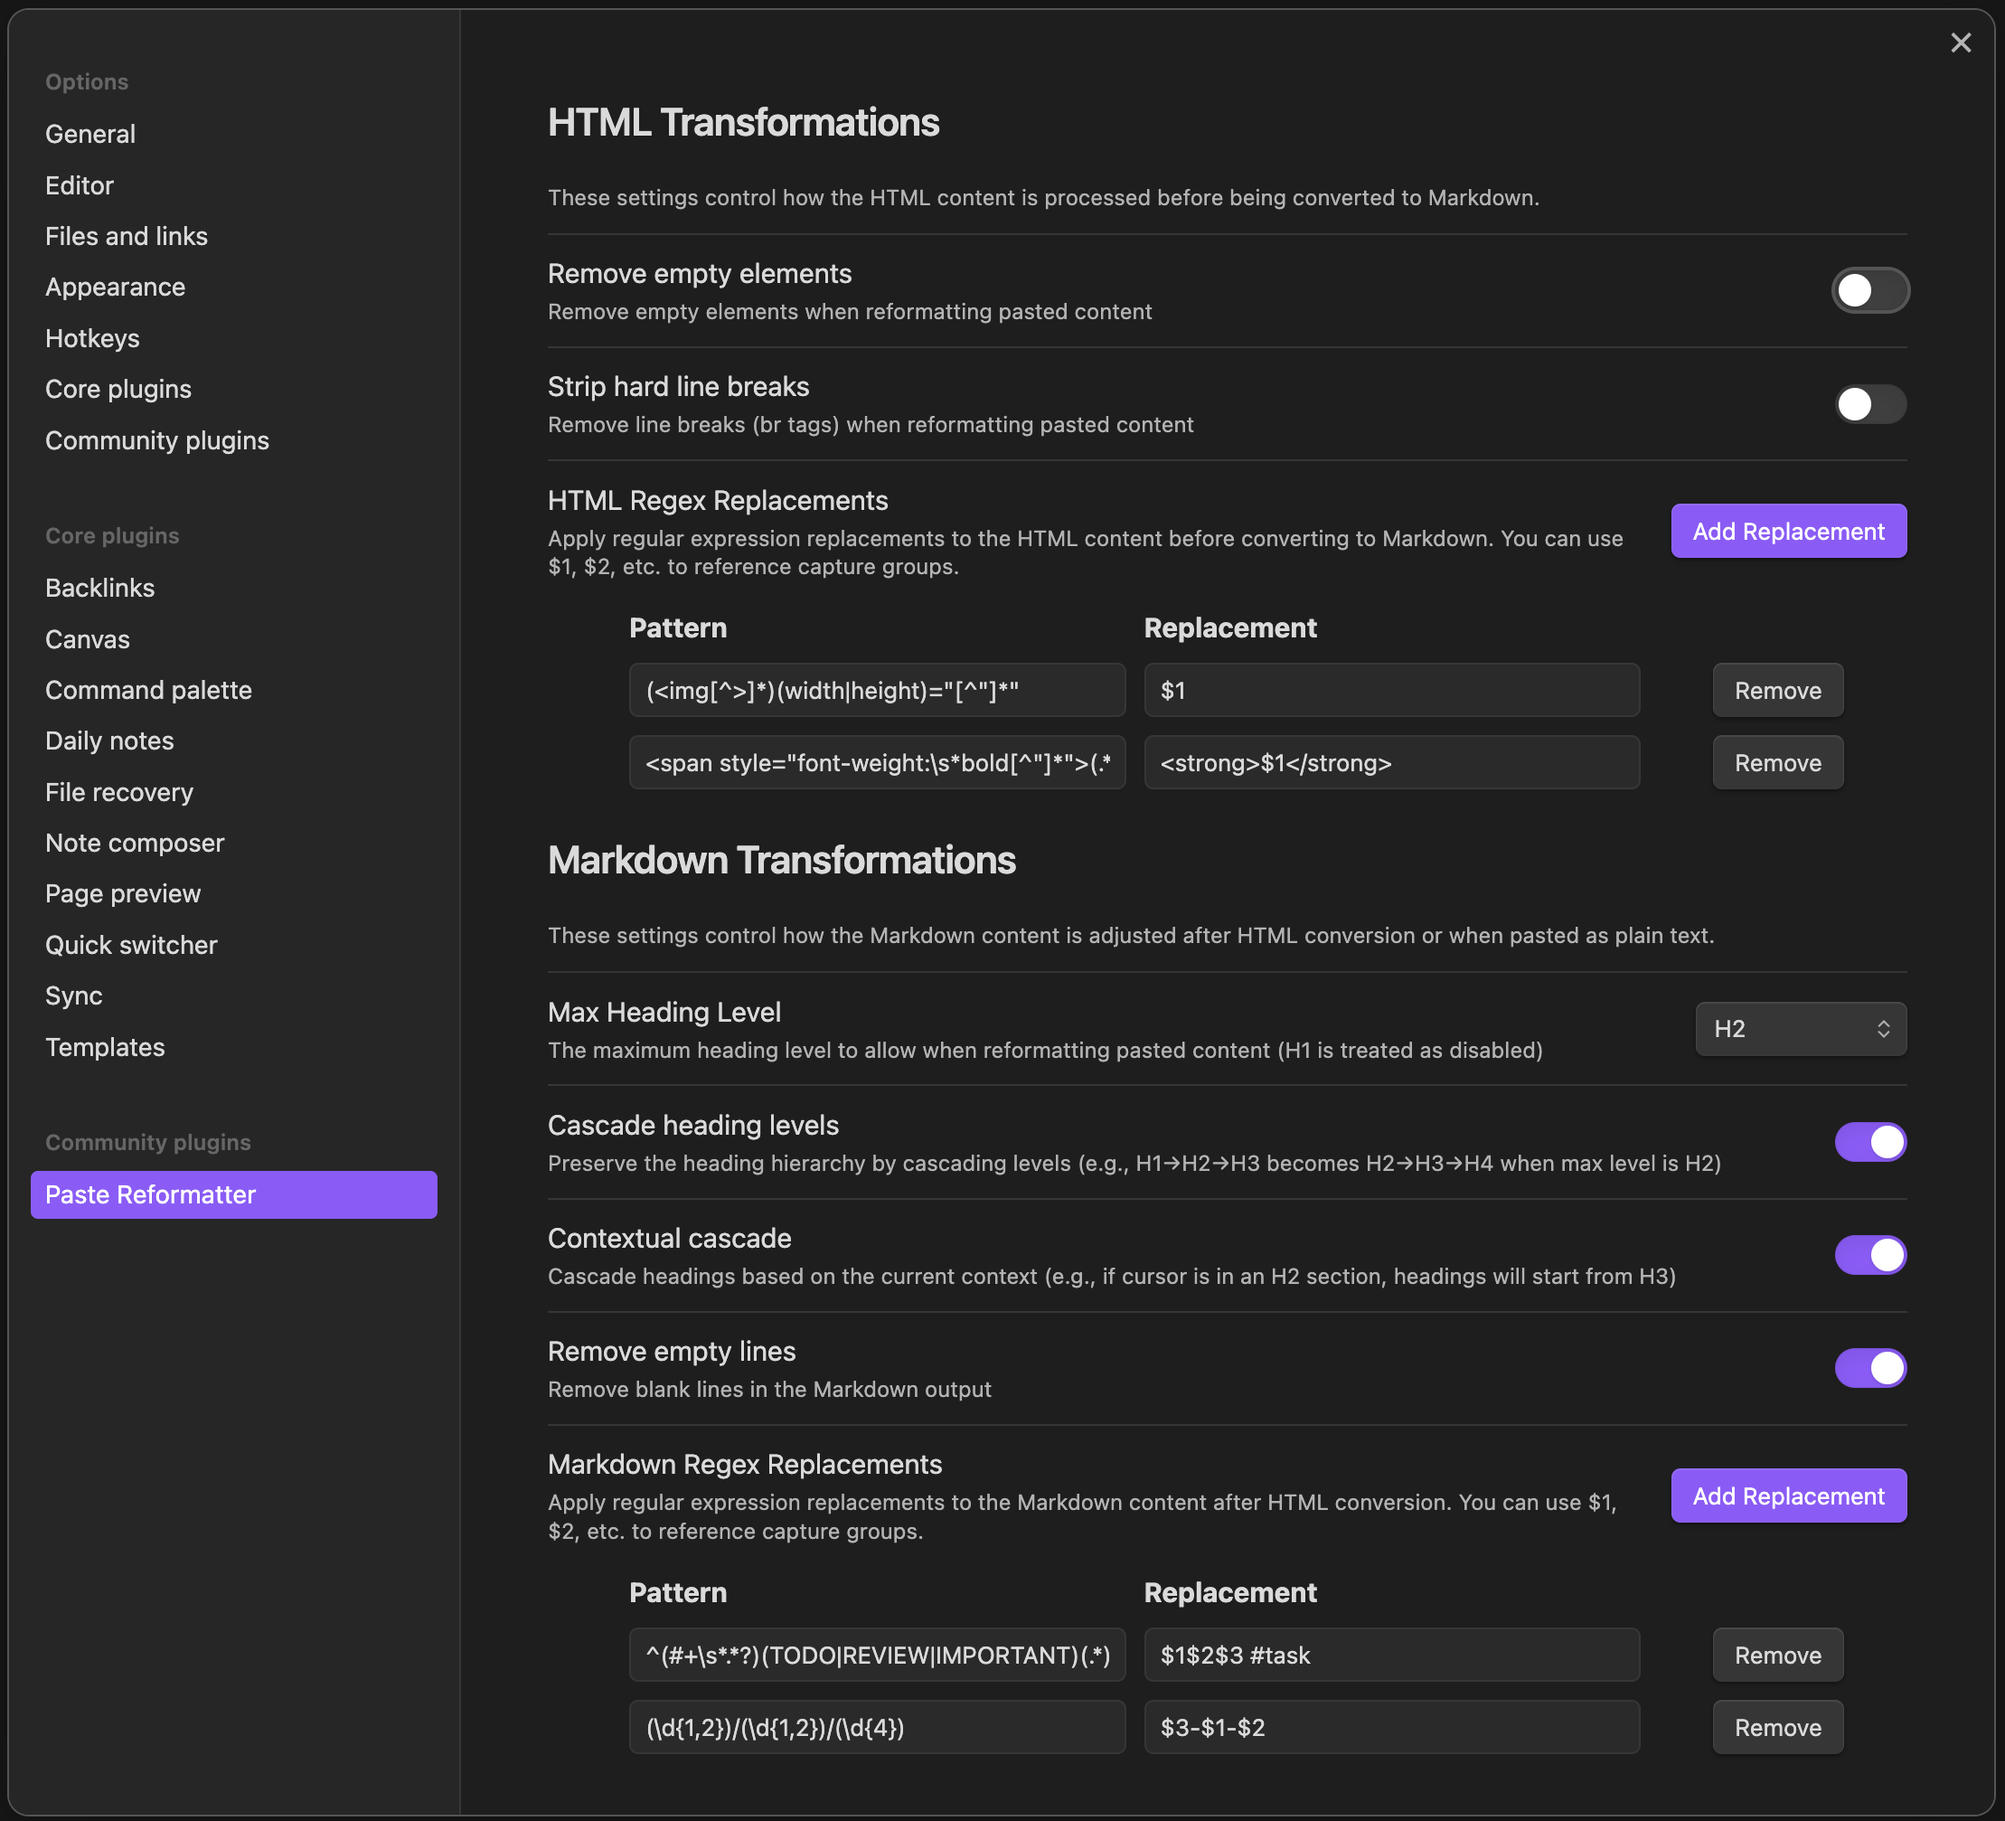
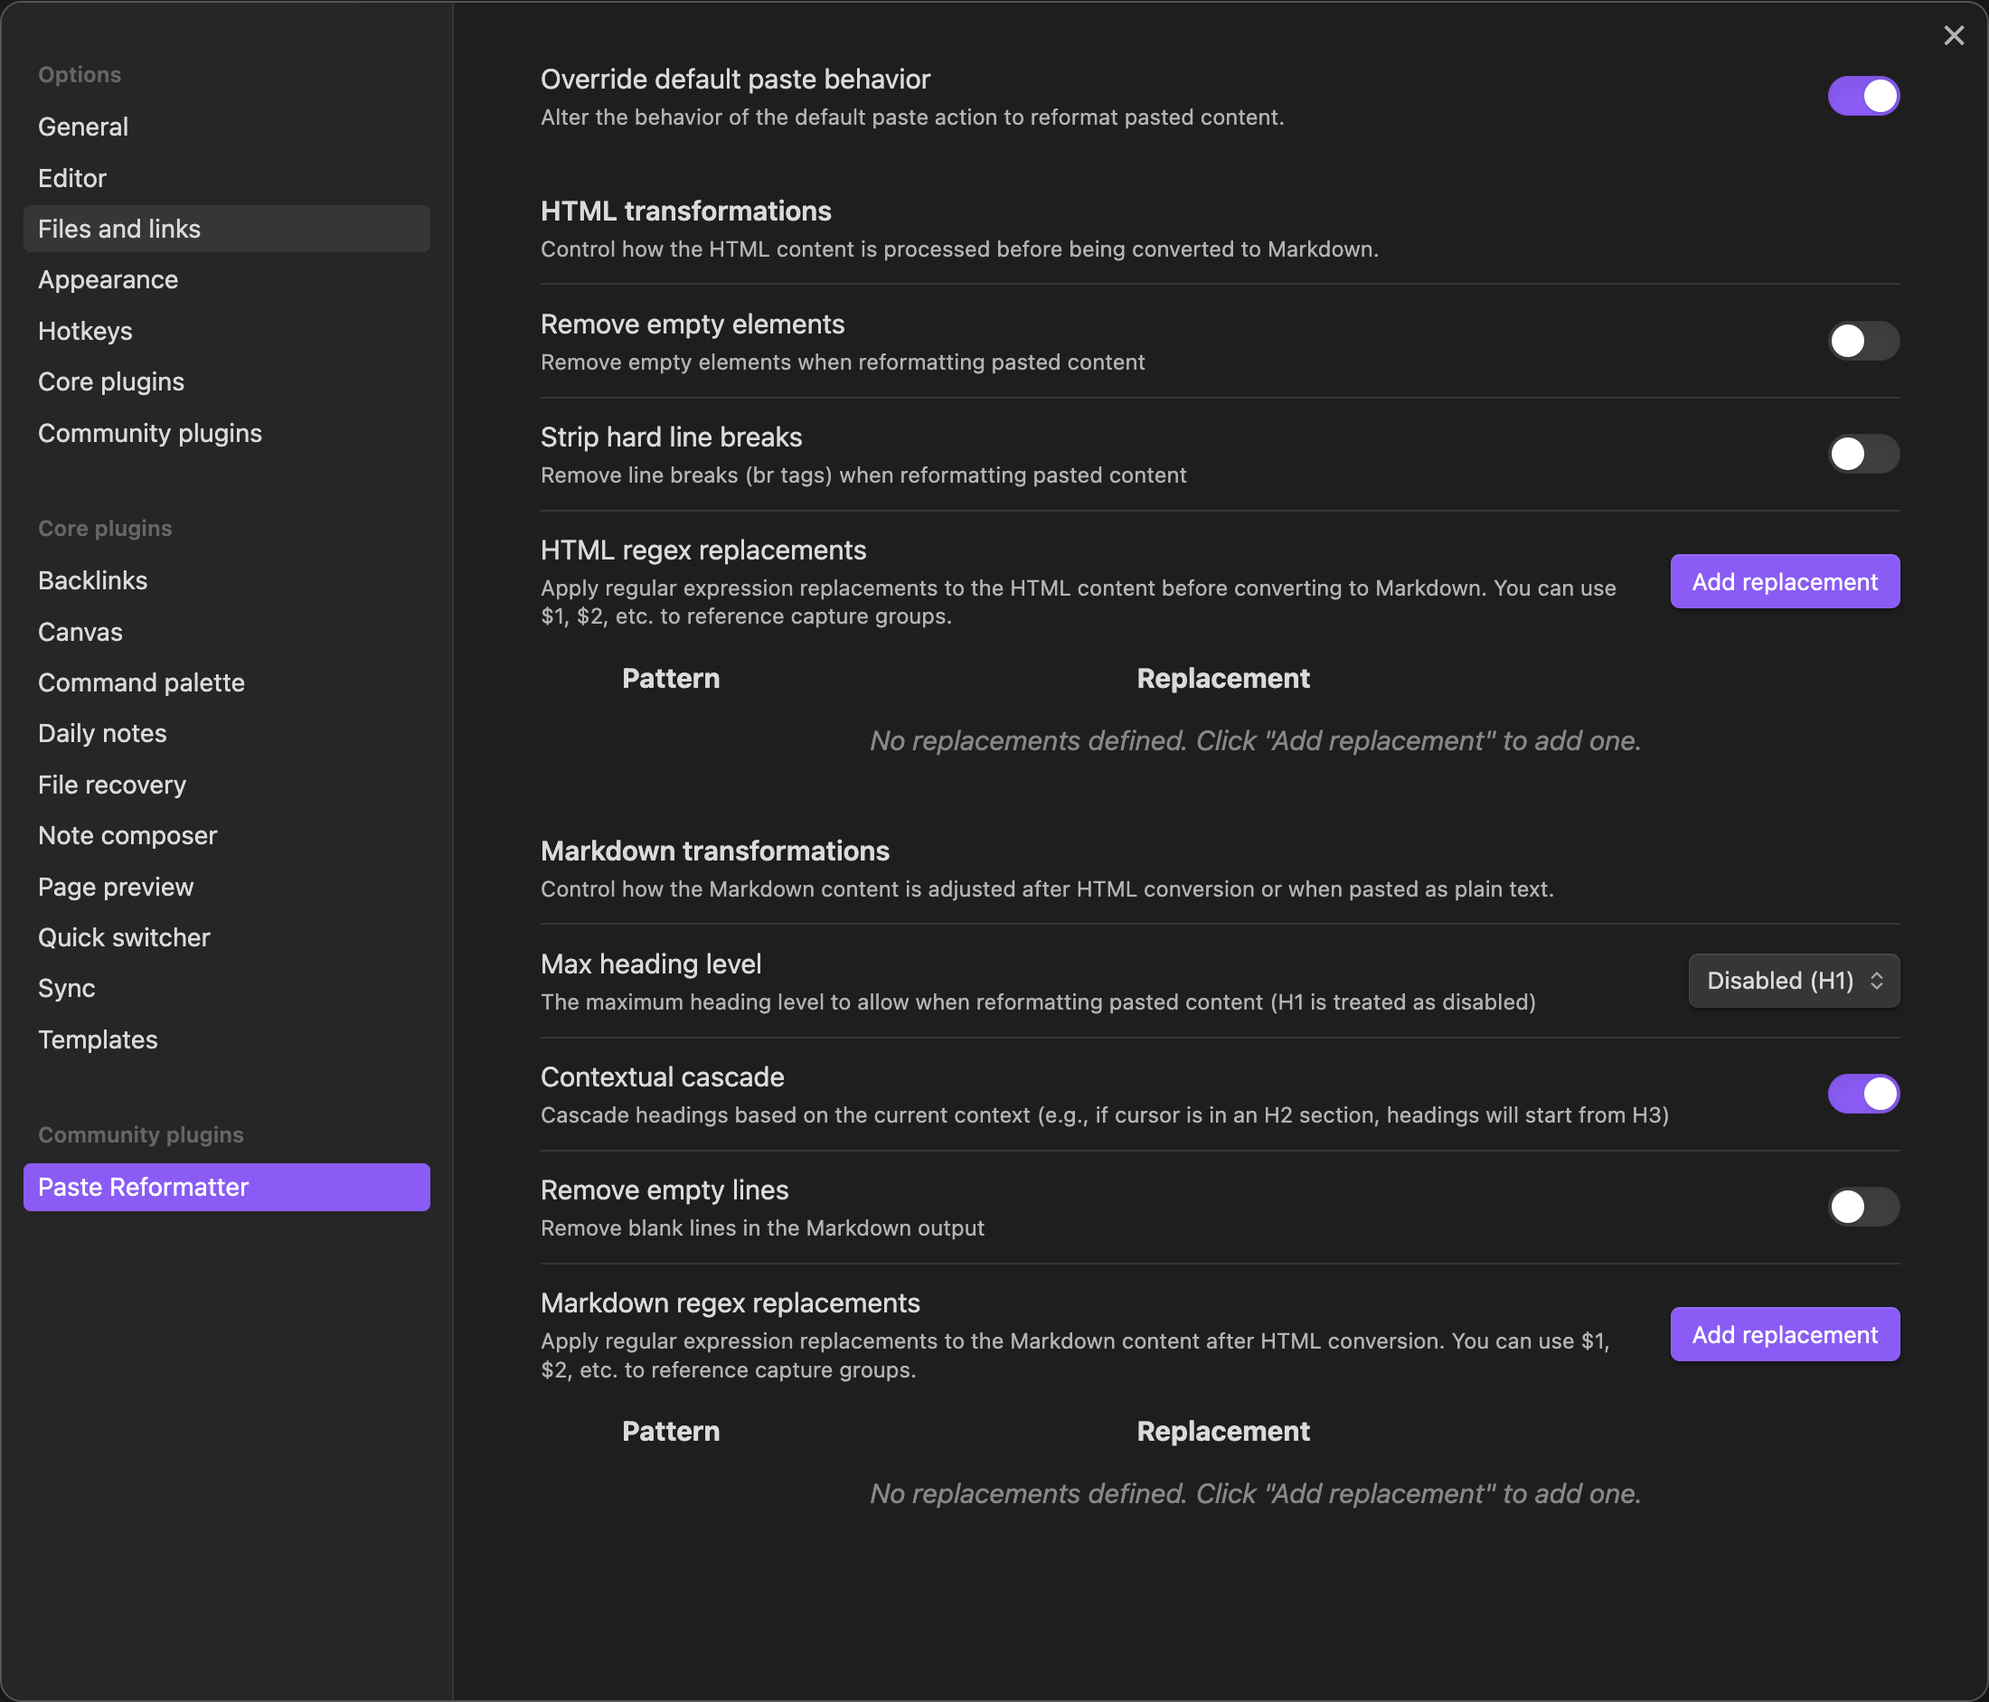
Update README

diff --git a/README.md b/README.md
@@ -2,6 +2,11 @@
 
 A plugin for [Obsidian](https://obsidian.md) that reformats pasted HTML and plain text content, giving you precise control over how content is transformed when pasted into your notes.
 
+* Use RegEx to transform HTML and Markdown.
+* Reformat HTML before converting to Markdown for better formatting results.
+* Automatically adjust pasted heading levels to match content.
+* Strip blank lines and elements.
+
 ## Installation
 
 ### From Obsidian Community Plugins
@@ -33,11 +38,28 @@ The Paste Reformatter plugin automatically processes content when you paste it i
 
 A notification will appear briefly indicating whether HTML or plain text content was reformatted.
 
+### Commands
+
+> Note: commands are prefixed with "Paste Reformatter:" in the hot-key list.
+
+|Command|Description|
+|-|-|
+|**Reformat and Paste**|By default, Paste Reformatter overrides Obsidian's normal paste behavior. Alternatively, you can disable this behavior (see below) and bind a hot-key to this command.|
+
+### Potential Conflicts
+
+Paste Reformatter can potentially conflict with other Obsidian plugins that override the default paste behavior. To mitigate this, Paste Reformatter will only prevent the default handling of the paste event if it actually performs a transformation on the pasted text. Otherwise, it will allow the default behavior to take place. This won't prevent all potential collisions, however. So if you run into problems, disable "Override default paste behavior" and bind a hotkey to the "Paste and Reformat" command. 
+
 ## Configuration
 
 ![alt text](image.png)
 
-The plugin settings are divided into two main categories that mirror the transformation pipeline:
+### General Settings
+
+#### Override default paste behavior
+
+When this setting is enabled, the default behavior of Obsidian's Paste function will be enhanced. Otherwise,
+**Reformat and Paste** command can be bound to an alternative hot-key to get enhanced paste behavior.
 
 ### HTML Transformations
 
